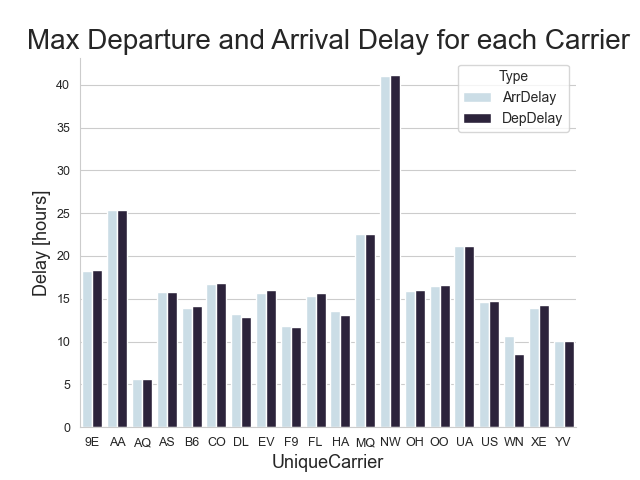
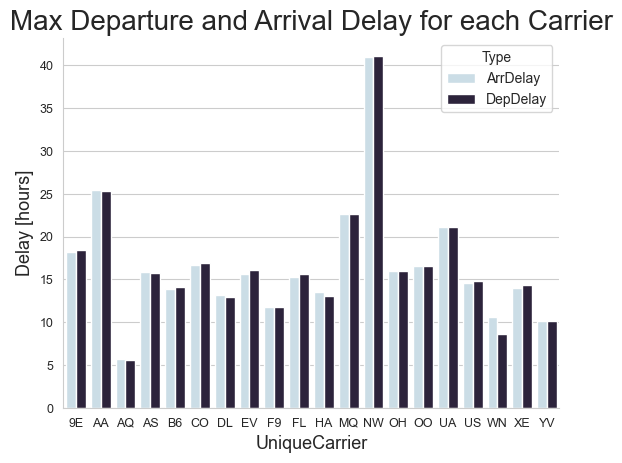
small_fixes

diff --git a/src/utils/eda.py b/src/utils/eda.py
@@ -46,5 +46,8 @@ def finish(
     ax.set_yticklabels(ax.get_yticks().astype(np.int64), size=xticks_size)
     ax.set_xticklabels(ax.get_xticklabels(), size=yticks_size)
     plt.title(title, size=title_size)
-    save_fig(title)
+    if ax.get_legend() is not None:
+        save_fig(title, bbox_extra_artists=(ax.get_legend(),), bbox_inches="tight")
+    else:
+        save_fig(title)
     plt.show()

diff --git a/tasks.md b/tasks.md
@@ -3,11 +3,11 @@ Done 🎉
     <li>Pipelines for auto-generation of requirements.txt, Sphinx documentation and code - formatting of python's files on push to master branch.</li>
     <li>Pipelines checking code formatting of python's files on pull request to master branch.</li>
     <li>Functions responsible for automatically downloading, extracting and loading data into memory.</li>
+    <li>Basic eda</li>
 </ul>
 <br>
 Doning 🥸
 <ul>
-    <li>Basic eda</li>
 </ul>
 <br>
 Ideas 💡
